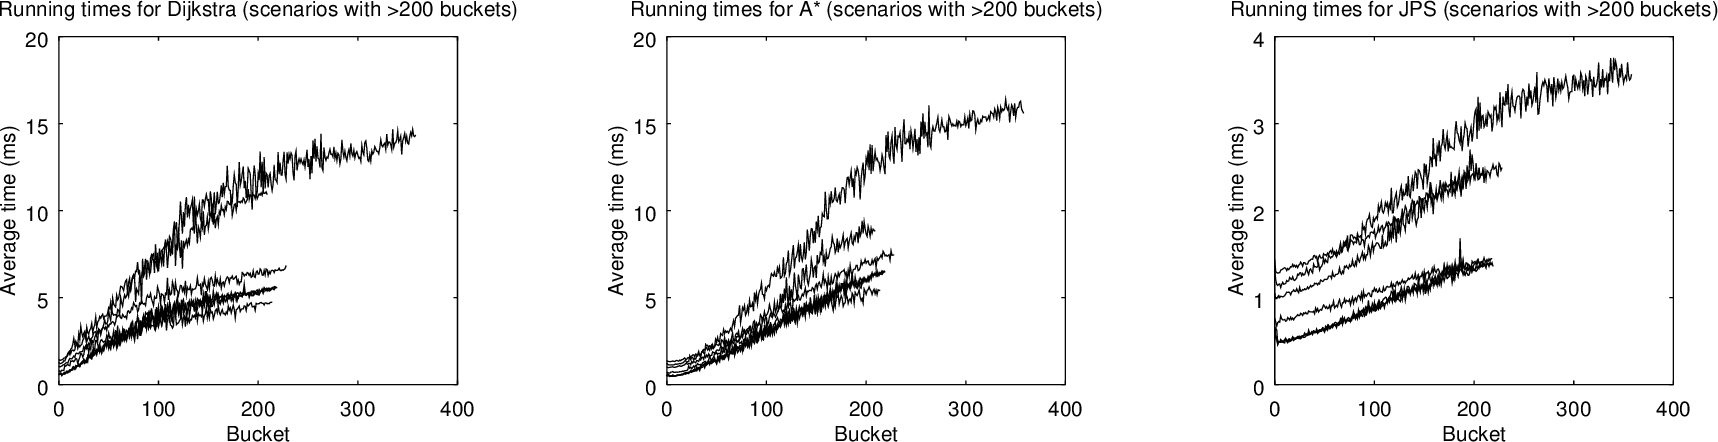
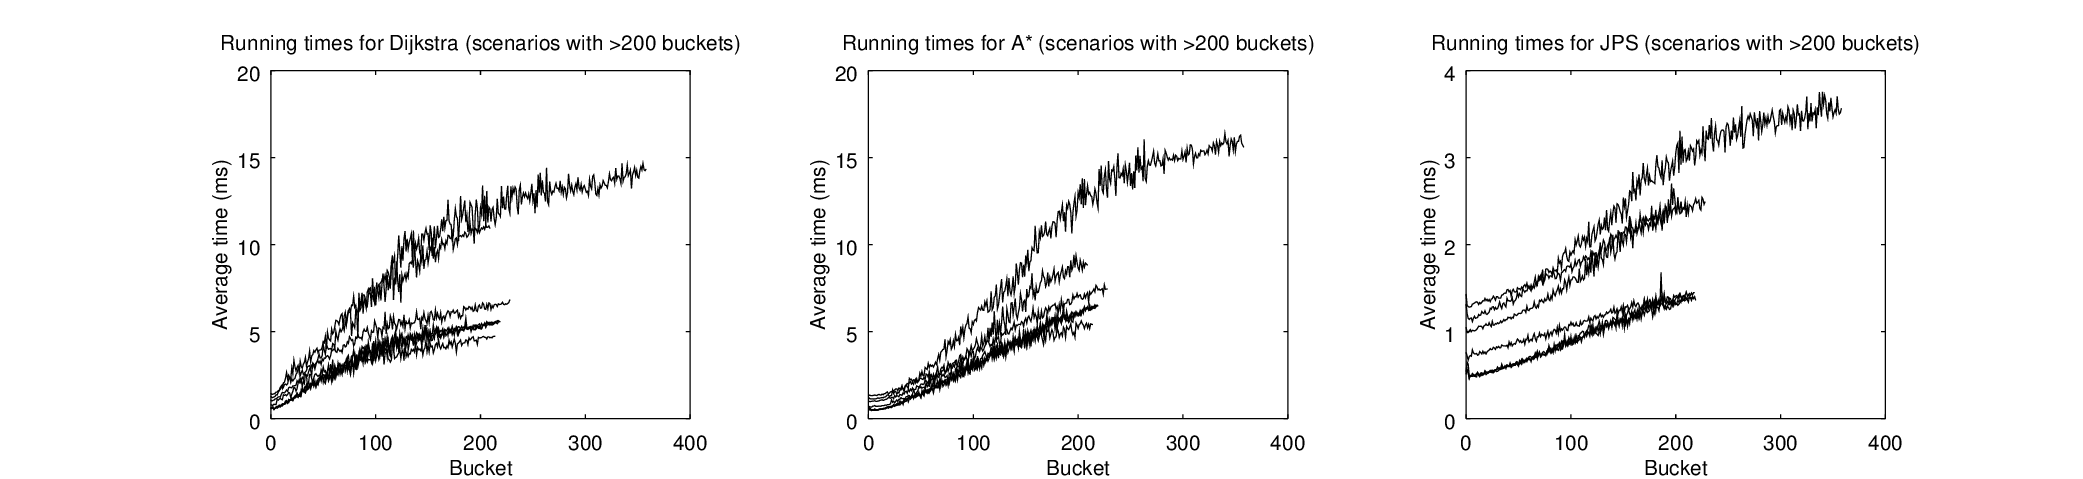
Normalize figure axes

diff --git a/results/results2.m b/results/results2.m
@@ -3,10 +3,15 @@
 % Settings
 %
 %===============================================================================
-DIRECTORY = "data/180821/dao";
-SAVE_FILENAME = "img/dao_results.png";
+TIMESTAMP = "180821";
+PROBLEM_SET = "dao";
+FIG1_Y_LIMITS = [[0 40]; [0 12]; [0 6]];
 PLOT_SCENARIOS = [];
-SCENARIO_RUNNING_TIMES_FILENAME = "img/dao_scenario_running_times.png";
+
+% These are derived from the values above
+DIRECTORY = fullfile("data", TIMESTAMP, PROBLEM_SET);
+SAVE_FILENAME = fullfile("img", strcat(PROBLEM_SET, "_results.png"));
+SCENARIO_RUNNING_TIMES_FILENAME = fullfile("img", strcat(PROBLEM_SET, "_scenario_running_times.png"));
 
 files = dir(fullfile(DIRECTORY, "*.csv"));
 if size(files, 1) == 0
@@ -17,6 +22,9 @@ end
 t = zeros(1024, 7);
 n = zeros(1024, 7);
 max_buckets = 0;
+
+% Clear figures
+clf(1); clf(2);
 
 for i = 1:size(files, 1)
     %===========================================================================
@@ -68,7 +76,7 @@ for i = 1:size(files, 1)
 %        img_path = fullfile("img", "scenarios");
 %        mkdir img_path;
 %        [filepath,name,ext] = fileparts(filename);
-%        plot_result(i, B, fullfile(img_path, strcat(name, ".png")));
+%        plot_result(i, B, fullfile(img_path, strcat(name, ".png")), []);
 %    end
 
     %===========================================================================
@@ -124,4 +132,4 @@ t_avg = t ./ n;
 % Plot the average over scenarios
 %
 %===========================================================================
-plot_result(1, t_avg, SAVE_FILENAME);
+plot_result(1, t_avg, SAVE_FILENAME, FIG1_Y_LIMITS);

diff --git a/results/plot_result.m b/results/plot_result.m
@@ -1,4 +1,4 @@
-function plot_result(fig, B, filename)
+function plot_result(fig, B, filename, y_limits)
     f = figure(fig);
 
     % Extract column data
@@ -23,6 +23,9 @@ function plot_result(fig, B, filename)
     title("Running time")
     xlabel("Bucket")
     ylabel("Average time (ms)")
+    if length(y_limits) > 0
+        ylim(y_limits(1, 1:2));
+    end
 
     % Plot of the speedup factor (compared to Dijkstra)
     subplot(1, 3, 2)
@@ -33,6 +36,9 @@ function plot_result(fig, B, filename)
     title("Speedup over Dijkstra")
     xlabel("Bucket")
     ylabel("Average speedup factor")
+    if length(y_limits) > 0
+        ylim(y_limits(2, 1:2));
+    end
 
     % Plot of the speedup factor (compared to A*)
     subplot(1, 3, 3)
@@ -42,8 +48,11 @@ function plot_result(fig, B, filename)
     title("Speedup over A*")
     xlabel("Bucket")
     ylabel("Average speedup factor")
+    if length(y_limits) > 0
+        ylim(y_limits(3, 1:2));
+    end
 
-    resize_figure(f, 1000, 260);
+    resize_figure(f, 1000, 230);
 
     if !isempty(filename)
         print(filename, "-dpng")

diff --git a/results/results.m b/results/results.m
@@ -5,6 +5,7 @@
 %===============================================================================
 DIRECTORY = "data/180821/dao";
 SAVE_FILENAME = "img/dao_results.png";
+Y_LIMITS = [[0 40]; [0 12]; [0 6]];
 
 files = dir(fullfile(DIRECTORY, "*.csv"));
 if size(files, 1) == 0
@@ -15,6 +16,9 @@ end
 t = zeros(1024, 7);
 n = zeros(1024, 7);
 max_buckets = 0;
+
+% Clear figures
+clf(1);
 
 for i = 1:size(files, 1)
     %===========================================================================
@@ -80,4 +84,4 @@ t_avg = t ./ n;
 % Plot the average over scenarios
 %
 %===========================================================================
-plot_result(1, t_avg, SAVE_FILENAME);
+plot_result(1, t_avg, SAVE_FILENAME, Y_LIMITS);
